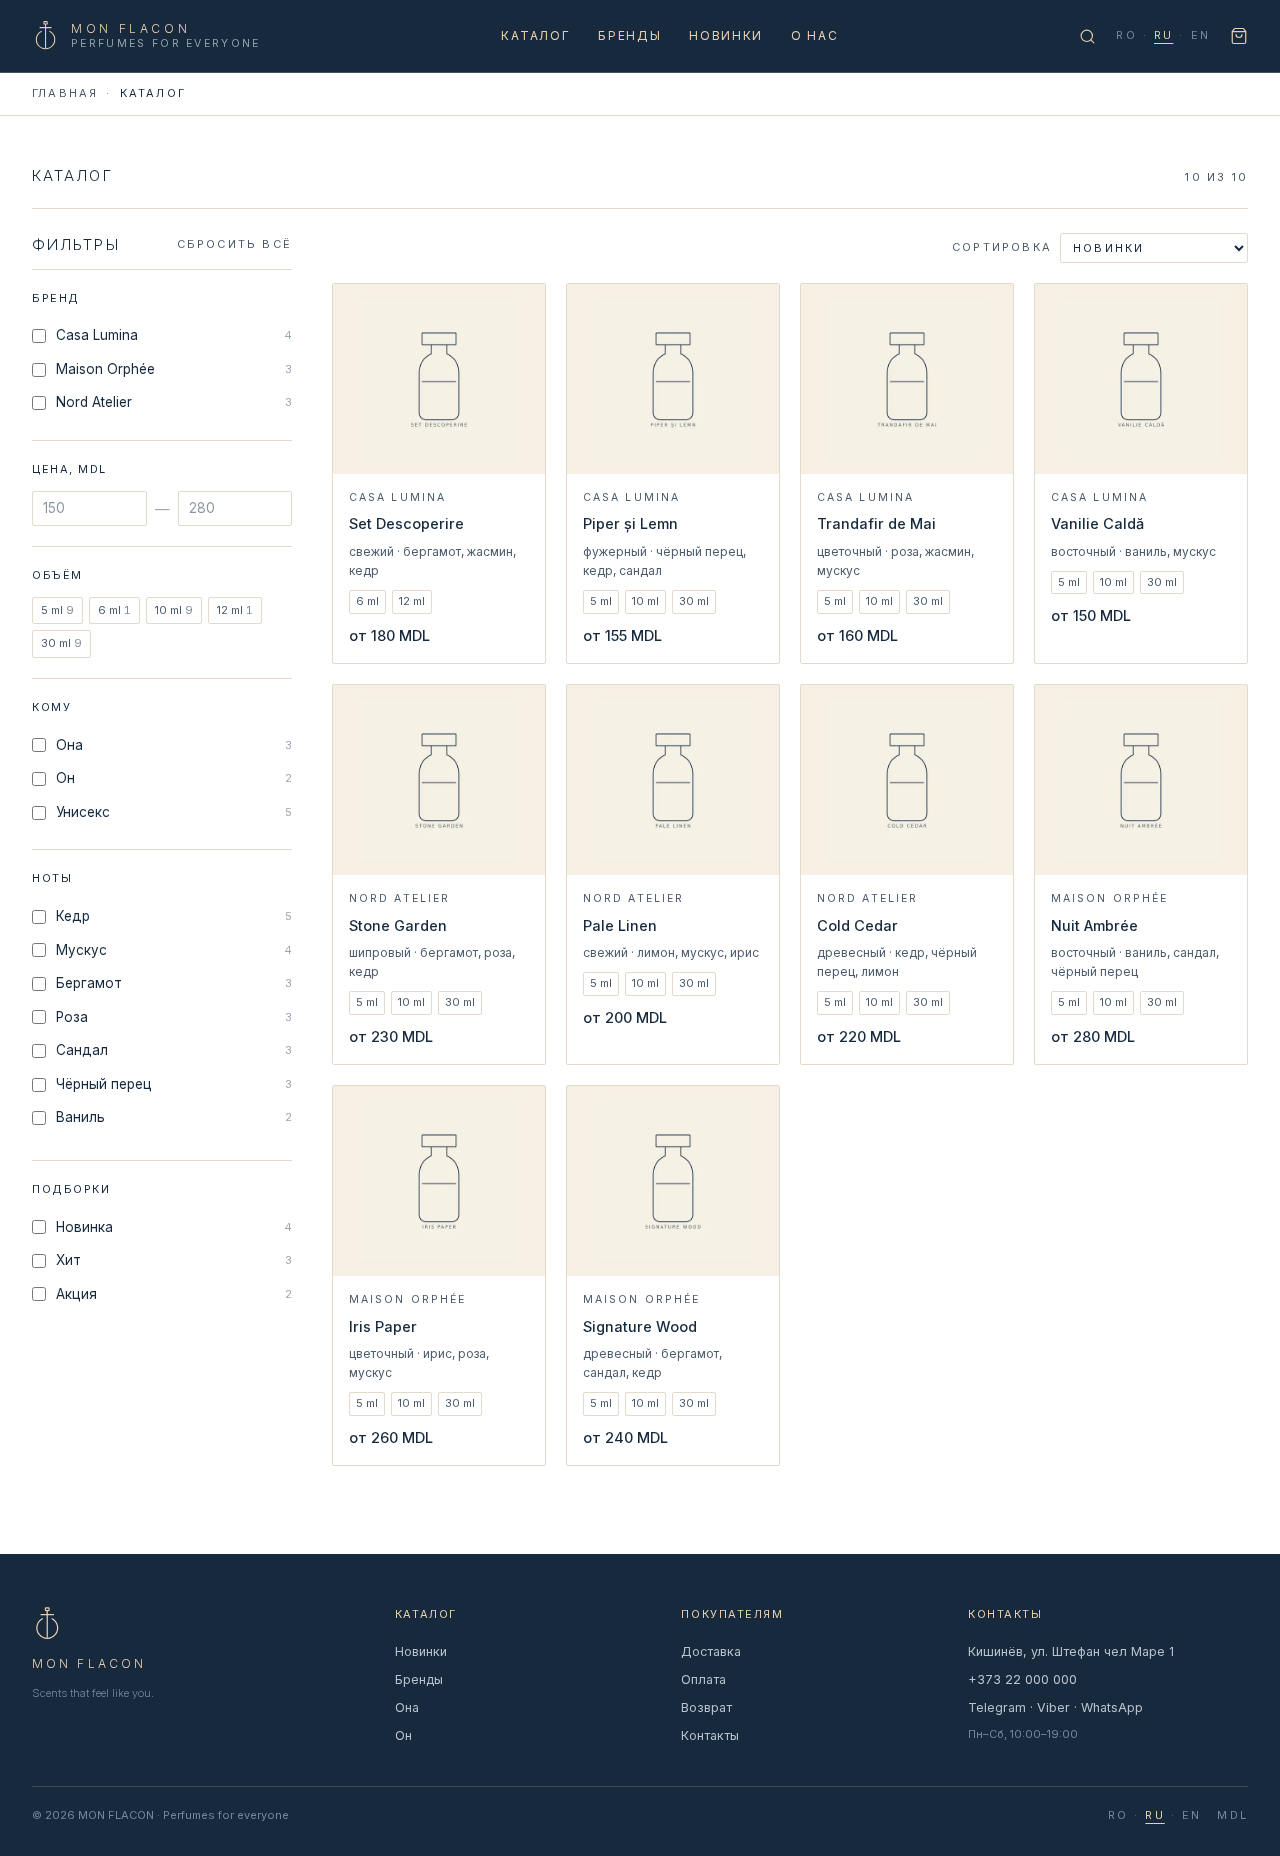
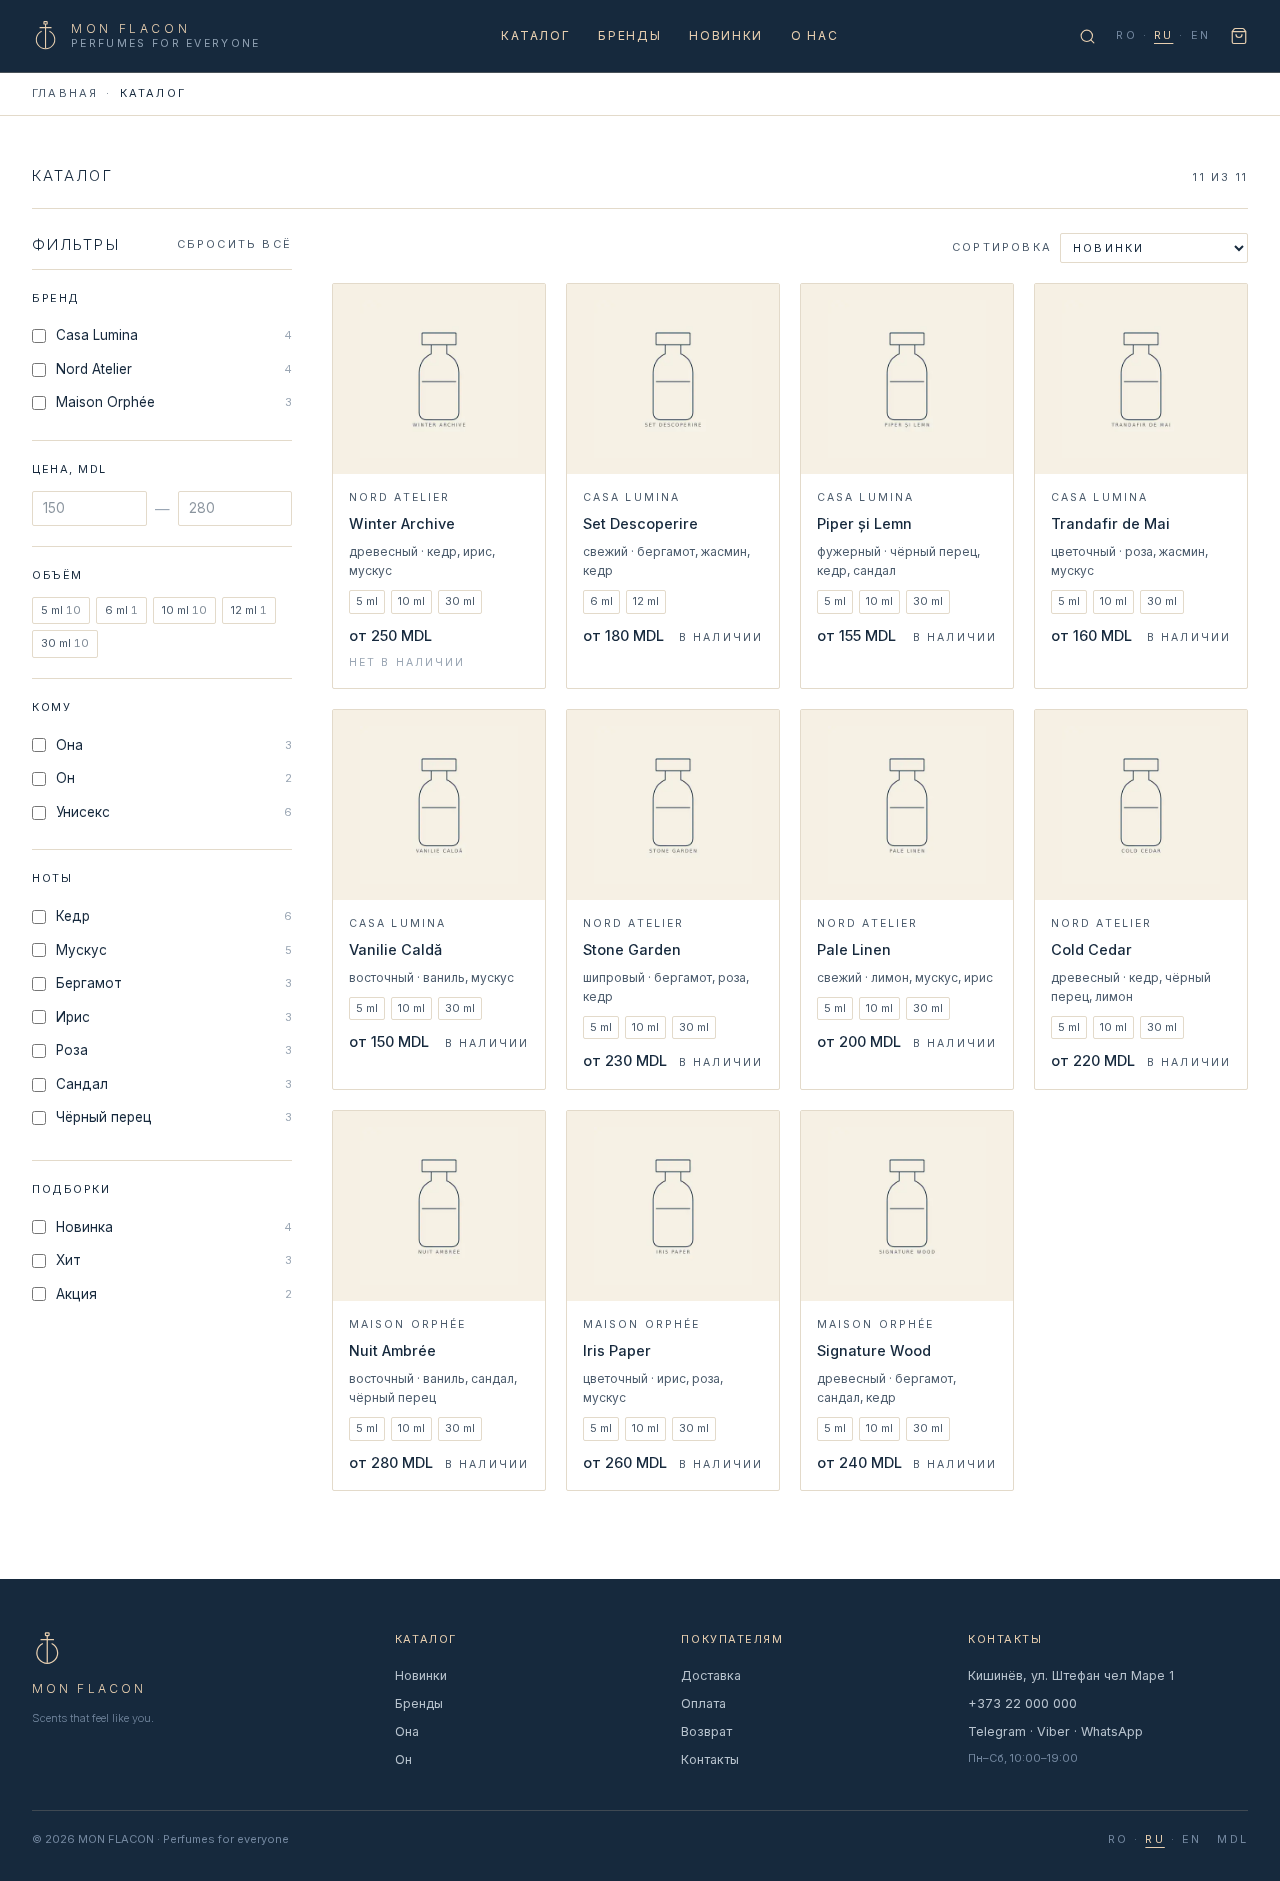
testing and fixing bugs

diff --git a/src/components/catalog/ProductCard.tsx b/src/components/catalog/ProductCard.tsx
@@ -48,11 +48,6 @@ export async function ProductCard({
           ) : (
             <BottleGlyph className="text-navy h-32 w-auto" />
           )}
-          {!product.inStock && (
-            <span className="bg-surface/90 text-ink-muted text-micro tracking-label absolute bottom-0 left-0 px-2 py-1 uppercase">
-              {tp('outOfStock')}
-            </span>
-          )}
         </div>
 
         <div className="flex flex-col gap-1.5 p-4">
@@ -77,8 +72,20 @@ export async function ProductCard({
             </div>
           )}
 
-          <div className="text-ink text-body mt-1 font-medium">
-            {t('from')} {formatPrice(product.minPrice, locale)}
+          {/* Цена и наличие — одна строка: слева цена, справа плашка.
+              Плашка — текст, а не подложка: линия и цвет вместо теней
+              (BRAND.md §5), «нет в наличии» уходит в приглушённый тон. */}
+          <div className="mt-1 flex flex-wrap items-baseline justify-between gap-2">
+            <span className="text-ink text-body font-medium">
+              {t('from')} {formatPrice(product.minPrice, locale)}
+            </span>
+            <span
+              className={`text-micro tracking-label uppercase ${
+                product.inStock ? 'text-ink-muted' : 'text-ink-subtle'
+              }`}
+            >
+              {product.inStock ? tp('inStock') : tp('outOfStock')}
+            </span>
           </div>
         </div>
       </Link>

diff --git a/next.config.ts b/next.config.ts
@@ -11,6 +11,26 @@ const dirname = path.dirname(__filename)
 
 const nextConfig: NextConfig = {
   output: 'standalone',
+  /**
+   * Только для dev. Next в режиме разработки отбивает запросы с чужого origin,
+   * поэтому при заходе на dev-сервер по адресу в локальной сети (с телефона,
+   * с другой машины) страница открывалась, но весь интерактив был мёртв:
+   * не работали фильтры, переключатель языка, смена объёма.
+   * На прод не влияет — там один домен и обычный origin.
+   *
+   * ⚠ Адрес в локальной сети не постоянный: он меняется при смене сети, по
+   * DHCP и после `wsl --shutdown`. Актуальный смотреть так:
+   *   в WSL      — `hostname -I`
+   *   в Windows  — `ipconfig` (адрес Wi-Fi/Ethernet, на него ходит телефон)
+   * Новый адрес можно либо дописать в массив ниже, либо разово передать
+   * без правки кода: `DEV_ORIGINS=192.168.0.5 pnpm dev` (через запятую — несколько).
+   */
+  allowedDevOrigins: [
+    '10.221.66.166',
+    ...(process.env.DEV_ORIGINS?.split(',')
+      .map((origin) => origin.trim())
+      .filter(Boolean) ?? []),
+  ],
   images: {
     localPatterns: [
       {

diff --git a/src/lib/seed/data.ts b/src/lib/seed/data.ts
@@ -264,6 +264,26 @@ export const products: SeedProduct[] = [
     variants: v('NA-SG', [230, 400, 940], [3, 2, 1]),
   },
   {
+    // Единственный товар, у которого нет ни одного варианта в наличии:
+    // на нём проверяются плашка «нет в наличии» в карточке и блокировка
+    // всех объёмов на странице товара.
+    handle: 'NA-WINTER-ARCHIVE',
+    slug: 'nord-atelier-winter-archive',
+    title: 'Winter Archive',
+    brand: 'nord-atelier',
+    categories: ['unisex'],
+    gender: 'unisex',
+    family: 'woody',
+    notes: ['cedru', 'iris', 'mosc'],
+    pyramid: { top: ['iris'], heart: ['cedru'], base: ['mosc'] },
+    description: {
+      ro: 'Ediție de arhivă: cedru rece și iris. Momentan epuizat.',
+      ru: 'Архивный выпуск: холодный кедр и ирис. Сейчас распродан.',
+      en: 'An archive release: cold cedar and iris. Currently sold out.',
+    },
+    variants: v('NA-WA', [250, 430, 990], [0, 0, 0]),
+  },
+  {
     handle: 'CL-VANILIE-CALDA',
     slug: 'casa-lumina-vanilie-calda',
     title: 'Vanilie Caldă',

diff --git a/docs/CHANGELOG.md b/docs/CHANGELOG.md
@@ -2,6 +2,26 @@
 
 Журнал ведётся по CLAUDE.md. Новые записи — сверху.
 
+## [2026-08-05] Фаза 3 (доработка) — dev cross-origin и плашка наличия
+
+- Сделано:
+  - **Dev cross-origin.** В `next.config.ts` добавлен `allowedDevOrigins` с адресом `10.221.66.166` и поддержкой разового переопределения через переменную окружения: `DEV_ORIGINS=192.168.0.5 pnpm dev` (несколько — через запятую). Рядом комментарий: адрес в локальной сети не постоянный, где смотреть актуальный (`hostname -I` в WSL, `ipconfig` в Windows). На прод не влияет — там один домен.
+  - **Плашка наличия на карточке товара.** В эталонной карточке (`ProductCard`) цена и наличие теперь одна строка: слева «от N MDL», справа состояние из `product.inStock`. Стиль — как прочий мелкий текст карточки: 10.5px uppercase, трекинг .2em, только токены; «в наличии» — `--color-ink-muted`, «нет в наличии» — приглушённее, `--color-ink-subtle`. Это текст, а не подложка: ни фона, ни рамки, ни тени (BRAND §5). Прежний вариант — полупрозрачная плашка поверх фото — убран.
+  - Строки локализованы: RO «În stoc» / «Stoc epuizat», RU «В наличии» / «Нет в наличии», EN «In stock» / «Out of stock». Ключи `Product.inStock`/`Product.outOfStock` уже существовали с фазы 3 (их использует страница товара) — теперь они переиспользуются и в карточке, дублей не заведено.
+  - **WIREFRAMES.md §3 дополнен**: плашка описана в составе эталонной карточки (позиция, размеры, оба цвета, источник данных, все три локали) + явная оговорка, что карточка едина для всего сайта, поэтому изменение автоматически действует в каталоге, категории, поиске, «похожих» и рядах главной.
+  - **Seed:** добавлен товар `NA-WINTER-ARCHIVE` (Winter Archive, Nord Atelier) — единственный, у которого все три варианта с нулевым остатком, то есть `inStock = false`. На нём проверяются и плашка «нет в наличии», и блокировка всех объёмов на странице товара. Товаров в seed стало 11.
+  - Новые скрипты самопроверки: `scripts/check-lan.mjs` (интерактив по произвольному адресу) и `scripts/check-stock.mjs` (плашка на трёх локалях + блокировка вариантов).
+- Файлы: `next.config.ts`, `src/components/catalog/ProductCard.tsx`, `src/lib/seed/data.ts`, `docs/WIREFRAMES.md`, `scripts/{check-lan,check-stock}.mjs`, `docs/screenshots/{catalog,catalog-ru,product-soldout}-*.png`.
+- Зависимости: нет.
+- Ждёт владельца:
+  - 👁 Открыть с телефона `http://10.221.66.166:3000/ro/catalog` и убедиться, что фильтры, переключатель языка и смена объёма реагируют. Если адрес машины изменился — заменить значение в `next.config.ts` или запустить `DEV_ORIGINS=<новый-ip> pnpm dev`.
+- Заметки:
+  - **Диагноз подтверждён экспериментом, а не на слово.** До правки по LAN-адресу страница отдавалась (200), но клиентские островки не гидрировались вовсе (`НЕТ react-props` на чекбоксе), в консоли — бесконечные попытки HMR-вебсокета `ERR_INVALID_HTTP_RESPONSE`. Контрольный прогон: тот же адрес без `allowedDevOrigins` — 0/4 проверок, с ним — 4/4.
+  - **`10.221.66.166` с этой машины недоступен:** у WSL свой адрес (`172.29.92.197`), а `10.221.66.166` — это, судя по всему, Windows-сторона, куда ходит телефон. Поэтому механизм проверялся на реальном LAN-адресе WSL через `DEV_ORIGINS`; для запрошенного адреса работает ровно тот же код, значение просто прописано в массиве.
+  - **Грабля: `pkill`/`lsof` не всегда убивали старый dev-сервер**, и первый прогон проверки шёл против процесса со старым конфигом — правка выглядела нерабочей. Next при этом честно пишет в лог «Another next dev server is already running» с PID; в спорных случаях смотреть первые строки лога dev-сервера.
+  - Грабли тестов (не продукта): `innerText` в Chromium отдаёт текст уже с применённым `text-transform: uppercase`, поэтому сравнение строк — регистронезависимое; и «нет в наличии» содержит «в наличии» как подстроку, так что проверка читает текст самой плашки, а не всей карточки.
+  - На узкой карточке в RU плашка переносится на свою строку под цену (`flex-wrap`) — это ожидаемо и читается нормально, см. `docs/screenshots/catalog-ru-1280.png`.
+
 ## [2026-08-04] Фаза 3 — Каталог
 
 - Сделано:

diff --git a/docs/WIREFRAMES.md b/docs/WIREFRAMES.md
@@ -53,8 +53,11 @@
   - название: 14.5px, вес 500, navy;
   - строка семейства/нот: 12px `#4A5A6B` («древесный · сандал, кедр»);
   - чипы объёмов из variants: 11px, рамка 1px, «5 ml · 10 ml · 30 ml»;
-  - цена: «от {minPrice} MDL», 14px, вес 500, navy.
+  - цена: «от {minPrice} MDL», 14px, вес 500, navy;
+  - **плашка наличия** — в одной строке с ценой, справа: 10.5px uppercase, трекинг .2em, как бренд в шапке карточки. Источник — `product.inStock` (хук денормализации по вариантам). В наличии — `#4A5A6B`; нет в наличии — приглушённее, `#9AA6B4`. Это текст, а не подложка: ни фона, ни тени, ни рамки. Строки локализованы: RO «În stoc» / «Stoc epuizat», RU «В наличии» / «Нет в наличии», EN «In stock» / «Out of stock».
   - Вся карточка — ссылка на товар.
+
+> Карточка едина для всего сайта: любое изменение в ней (включая плашку наличия) автоматически действует во всех товарных сетках — каталог, категория, результаты поиска, «похожие» на странице товара, ряды «Новинки»/«Хиты» на главной.
 
 ### 4. Editorial-блок (navy, формула «1 image + 1 phrase + logo»)
 
